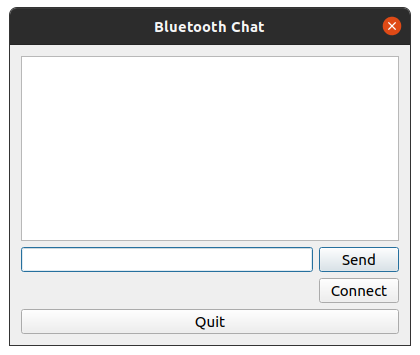
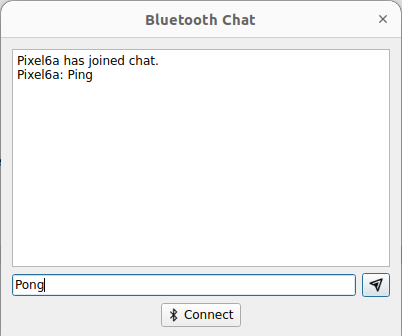
Bluetooth Chat example: update UI
* Add some icons for Light and Dark themes. Implement switching between
  themes by listening to QStyleHints::colorSchemeChanged() signal and
  manually picking the proper icon.
* Rework the desing to get rid of the unnecessary "Quit" button, and
  also change the layout of buttons in the connection dialog.
* Update the screenshot in the documentation.

As a drive-by fix, make sure that the cursor is always at the end of
QTextEdit before showing a new message. The user can change the cursor
position by clicking/selecting the text, and this could previously lead
to some bugs in message visualization.

Fixes: QTBUG-118875
Pick-to: 6.6 6.5

Changed region(s): [[0.0, 0.0, 1.0, 1.0]]

diff --git a/examples/bluetooth/btchat/chat.cpp b/examples/bluetooth/btchat/chat.cpp
@@ -13,6 +13,9 @@
 #include <QtBluetooth/qbluetoothlocaldevice.h>
 #include <QtBluetooth/qbluetoothuuid.h>
 
+#include <QtGui/qguiapplication.h>
+#include <QtGui/qstylehints.h>
+
 #if QT_CONFIG(permissions)
 #include <QtCore/qcoreapplication.h>
 #include <QtCore/qpermissions.h>
@@ -32,11 +35,14 @@ Chat::Chat(QWidget *parent)
     //! [Construct UI]
     ui->setupUi(this);
 
-    connect(ui->quitButton, &QPushButton::clicked, this, &Chat::accept);
     connect(ui->connectButton, &QPushButton::clicked, this, &Chat::connectClicked);
     connect(ui->sendButton, &QPushButton::clicked, this, &Chat::sendClicked);
     //! [Construct UI]
     ui->connectButton->setFocus();
+
+    QStyleHints *styleHints = qGuiApp->styleHints();
+    updateIcons(styleHints->colorScheme());
+    connect(styleHints, &QStyleHints::colorSchemeChanged, this, &Chat::updateIcons);
 
     initBluetooth();
 }
@@ -104,6 +110,15 @@ void Chat::initBluetooth()
     //! [Get local device name]
     localName = QBluetoothLocalDevice().name();
     //! [Get local device name]
+}
+
+void Chat::updateIcons(Qt::ColorScheme scheme)
+{
+    const QString bluetoothIconName = (scheme == Qt::ColorScheme::Dark) ? u"bluetooth_dark"_s
+                                                                        : u"bluetooth"_s;
+    const QString sendIconName = (scheme == Qt::ColorScheme::Dark) ? u"send_dark"_s : u"send"_s;
+    ui->sendButton->setIcon(QIcon::fromTheme(sendIconName));
+    ui->connectButton->setIcon(QIcon::fromTheme(bluetoothIconName));
 }
 
 //! [clientConnected clientDisconnected]
@@ -237,6 +252,7 @@ void Chat::sendClicked()
 //! [showMessage]
 void Chat::showMessage(const QString &sender, const QString &message)
 {
+    ui->chat->moveCursor(QTextCursor::End);
     ui->chat->insertPlainText(QString::fromLatin1("%1: %2\n").arg(sender, message));
     ui->chat->ensureCursorVisible();
 }

diff --git a/examples/bluetooth/btchat/remoteselector.cpp b/examples/bluetooth/btchat/remoteselector.cpp
@@ -9,7 +9,12 @@
 #include <QtBluetooth/qbluetoothservicediscoveryagent.h>
 #include <QtBluetooth/qbluetoothuuid.h>
 
+#include <QtGui/qguiapplication.h>
+#include <QtGui/qstylehints.h>
+
 #include <QtWidgets/qlistwidget.h>
+
+using namespace Qt::StringLiterals;
 
 RemoteSelector::RemoteSelector(const QBluetoothAddress &localAdapter, QWidget *parent)
     :   QDialog(parent), ui(new Ui::RemoteSelector)
@@ -18,6 +23,10 @@ RemoteSelector::RemoteSelector(const QBluetoothAddress &localAdapter, QWidget *p
 #if defined(Q_OS_ANDROID) || defined(Q_OS_IOS)
     setWindowState(Qt::WindowMaximized);
 #endif
+
+    QStyleHints *styleHints = qGuiApp->styleHints();
+    updateIcon(styleHints->colorScheme());
+    connect(styleHints, &QStyleHints::colorSchemeChanged, this, &RemoteSelector::updateIcon);
 
 //! [createDiscoveryAgent]
     m_discoveryAgent = new QBluetoothServiceDiscoveryAgent(localAdapter);
@@ -104,6 +113,14 @@ void RemoteSelector::discoveryFinished()
     ui->status->setText(tr("Select the chat service to connect to."));
 }
 
+void RemoteSelector::updateIcon(Qt::ColorScheme scheme)
+{
+    const QString bluetoothIconName = (scheme == Qt::ColorScheme::Dark) ? u"bluetooth_dark"_s
+                                                                        : u"bluetooth"_s;
+    const QIcon bluetoothIcon = QIcon::fromTheme(bluetoothIconName);
+    ui->iconLabel->setPixmap(bluetoothIcon.pixmap(24, 24, QIcon::Normal, QIcon::On));
+}
+
 void RemoteSelector::on_remoteDevices_itemActivated(QListWidgetItem *item)
 {
     m_service = m_discoveredServices.value(item);
@@ -116,6 +133,7 @@ void RemoteSelector::on_remoteDevices_itemActivated(QListWidgetItem *item)
 void RemoteSelector::on_remoteDevices_itemClicked(QListWidgetItem *)
 {
     ui->connectButton->setEnabled(true);
+    ui->connectButton->setFocus();
 }
 
 void RemoteSelector::on_connectButton_clicked()

diff --git a/examples/bluetooth/btchat/main.cpp b/examples/bluetooth/btchat/main.cpp
@@ -6,10 +6,14 @@
 #include <QtCore/qloggingcategory.h>
 #include <QtWidgets/qapplication.h>
 
+using namespace Qt::StringLiterals;
+
 int main(int argc, char *argv[])
 {
     // QLoggingCategory::setFilterRules(QStringLiteral("qt.bluetooth* = true"));
     QApplication app(argc, argv);
+
+    QIcon::setThemeName(u"btchat"_s);
 
     Chat d;
     QObject::connect(&d, &Chat::accepted, &app, &QApplication::quit);

diff --git a/examples/bluetooth/btchat/remoteselector.h b/examples/bluetooth/btchat/remoteselector.h
@@ -42,6 +42,7 @@ private:
 private slots:
     void serviceDiscovered(const QBluetoothServiceInfo &serviceInfo);
     void discoveryFinished();
+    void updateIcon(Qt::ColorScheme scheme);
     void on_remoteDevices_itemActivated(QListWidgetItem *item);
     void on_remoteDevices_itemClicked(QListWidgetItem *item);
     void on_cancelButton_clicked();

diff --git a/examples/bluetooth/btchat/chat.h b/examples/bluetooth/btchat/chat.h
@@ -42,6 +42,8 @@ private slots:
 
     void initBluetooth();
 
+    void updateIcons(Qt::ColorScheme scheme);
+
 private:
     int adapterFromUserSelection() const;
     int currentAdapterIndex = 0;
